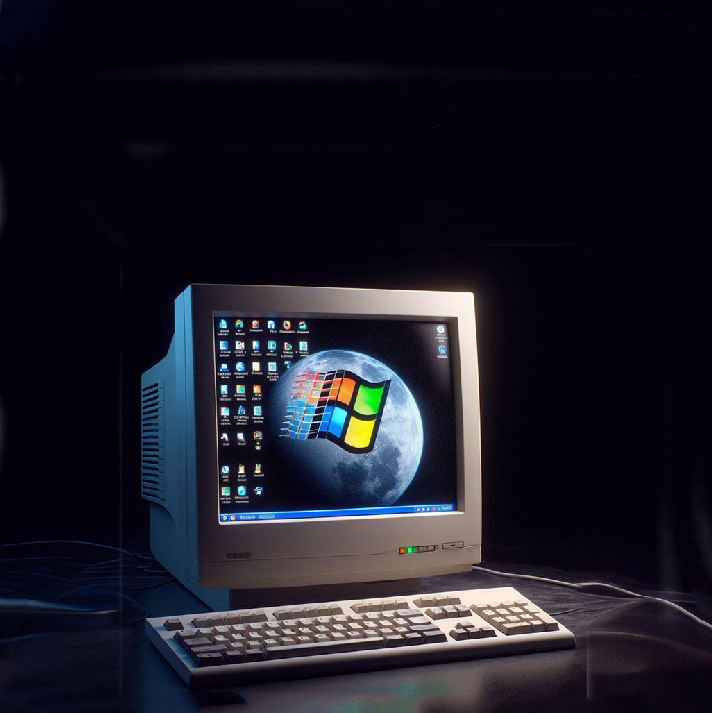
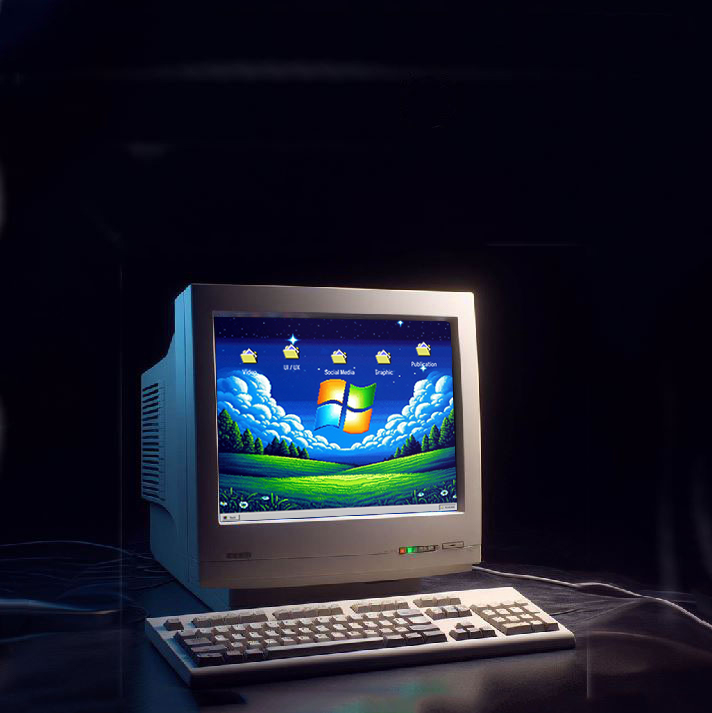
0606day

Changed region(s): [[0.2781, 0.432, 0.6489, 0.7405]]

diff --git a/portfolio.html b/portfolio.html
@@ -36,15 +36,15 @@
         </div>
         <div class="mine_all">
             <div class="minebar">
-                <h1>Bugsweeper</h1>
-                <h1>X</h1>
+                <h1>Chill out here</h1>
+                <h1 class="close_m">―</h1>
             </div>
             <div class="mine_bg">
                 <figure class="gameface"><img src="./images/mine/f1.gif" alt=""></figure>
                 <div class="mine">
                     <table class="down">
                         <tr>
-                            <td class="md">🪳</td>
+                            <td class="md"><img src="./images/mine/bug.svg" alt="" ></td>
                             <td class="m1">1</td>
                             <td class="m1">1</td>
                             <td class="m1">1</td>
@@ -53,16 +53,16 @@
                             <td class="m1">1</td>
                             <td class="m2">2</td>
                             <td class="m2">2</td>
-                            <td class="md">🪳</td>
+                            <td class="md"><img src="./images/mine/bug.svg" alt="" ></td>
                         </tr>
                         <tr>
                             <td class="m1">1</td>
                             <td class="m2">2</td>
-                            <td class="md">🪳</td>
+                            <td class="md"><img src="./images/mine/bug.svg" alt="" ></td>
                             <td class="m2">2</td>
                         </tr>
                         <tr>
-                            <td class="md">🪳</td>
+                            <td class="md"><img src="./images/mine/bug.svg" alt="" ></td>
                             <td class="m2">2</td>
                             <td class="m1">1</td>
                             <td class="m1">1</td>
@@ -97,6 +97,12 @@
                     
                     <div class="mask"></div>
                 </div>
+            </div>
+        </div>
+        <div class="mine_small">
+            <div class="minebar">
+                <h1>Chill out here</h1>
+                <h1 class="pop_m">☐</h1>
             </div>
         </div>
         <div class="lowbar">
@@ -226,7 +232,14 @@
                 $(this).css("opacity", "0");
                 checkAndUpdateImage();
             });
-
+            $(".close_m").click(function(){
+               $(".mine_all").hide();
+               $(".mine_small").show();
+            })
+            $(".pop_m").click(function(){
+               $(".mine_small").hide();
+               $(".mine_all").show();
+            })
         });
     </script>
 </body>

diff --git a/style/style.css b/style/style.css
@@ -107,6 +107,7 @@ section {
 
 body {
     line-height: 1;
+    user-select: none;
 }
 
 ol,
@@ -138,8 +139,8 @@ table {
     /* ctrl+H +> var(--xxxx)取代*/
     --bg: #151226;
     --blue: #71e5ff;
-    --white1: #f0f0f0;
-    --gray0: #C3C3C3;
+    --white1: #E9F0F8;
+    --gray0: #c3c3c3;
     --gray1: #B1B1B1;
     --gray2: #7E7E7E;
     --gray3: #262626;
@@ -676,7 +677,8 @@ a {
         inset white 5px 5px;
     padding: 5px;
 }
-.gameface:active{
+
+.gameface:active {
     box-shadow: none;
     border: 1px solid var(--gray3);
 }
@@ -749,16 +751,27 @@ td {
     /* border: #4efa65 solid 2px; */
 }
 
+.md img {
+    height: 25px;
+    margin: auto;
+}
+.mine_small{
+    position: fixed;
+    bottom: 50px;
+    left: 150px;
+    display: none;
+}
+
 /* portfolio-mine */
 .workpage {
     /* 分頁的背景 */
-    background-image: url(../images/port/portbg.svg);
+    background-image: url(../images/port/portbg2.jpg);
     background-size: cover;
     background-position: center;
 }
 
 .port section {
-    background-image: url(../images/port/portbg.svg);
+    background-image: url(../images/port/portbg2.jpg);
     background-size: cover;
     background-position: center;
     height: 100vh;
@@ -766,13 +779,31 @@ td {
     flex-direction: column;
 }
 
+.folders div:nth-child(1) {
+    margin-top:110px;
+}
+
+.folders div:nth-child(2) {
+    margin-top: 50px;
+}
+
+.folders div:nth-child(3) {
+    margin-top: 70px;
+}
+
+.folders div:nth-child(4) {
+    margin-top: 90px;
+}
+.folders div:nth-child(5) {
+    margin-top: 40px;
+}
+
 .folders {
     color: white;
     display: flex;
     height: 36vh;
-    align-items: flex-start;
     justify-content: space-evenly;
-    padding-top: 70px;
+    padding: 0 300px;
 }
 
 .folders h1 {

diff --git a/index.html b/index.html
@@ -35,7 +35,7 @@
                 <h1 class="name r2">✦PIN CHIA, CHEN✦</h1>
                 <div class="bg"></div>
                 <figure class="circle_text "><img src="./images/circle.svg" alt=""></figure>
-                <figure class="self_pic"><img src="./images/self.png" alt="">
+                <figure class="self_pic"><img src="./images/self2.png" alt="">
                     <h2>ABOUT ME</h2>
                 </figure>
                 <div class="arr_down">
@@ -53,7 +53,7 @@
             <h1>
                 我在設計與影音製作有超過六年的經驗。平時對學習新技術和探索新的可能性充滿熱情。考慮到職涯發展，
                 我決定轉職為前端工程師。相信我在設計、動畫和數據分析方面的背景能幫助我在這個職位上發光發熱。
-
+                <br>
                 “ I have more than six years of experience in design and video production. I am passionate about
                 learning
                 technology and exploring new possibilities. Considering my career development, I have decided to
